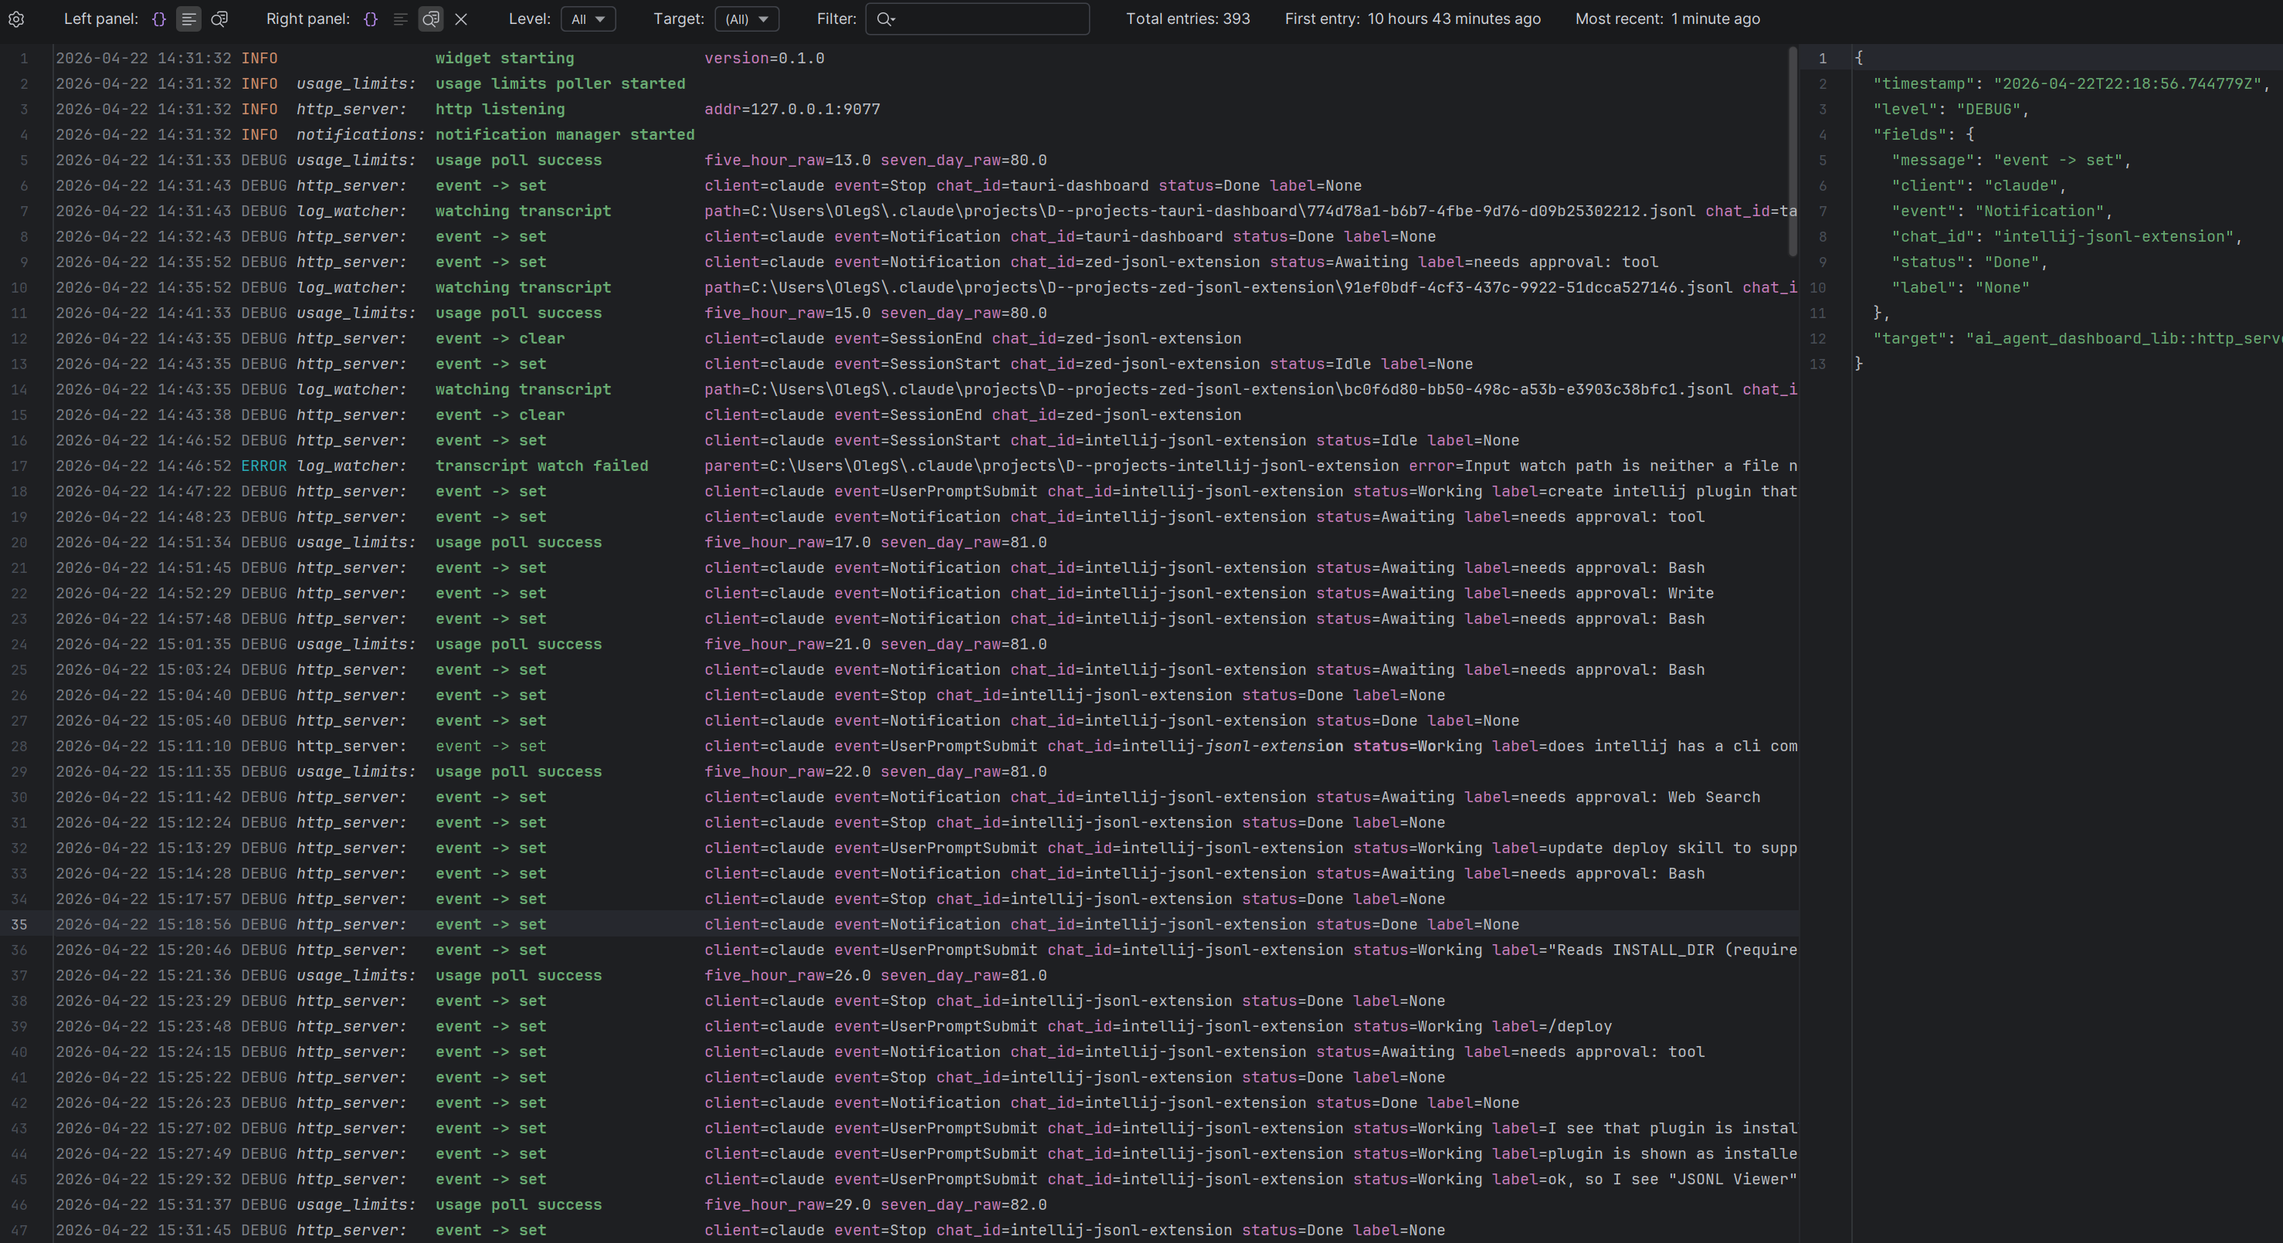
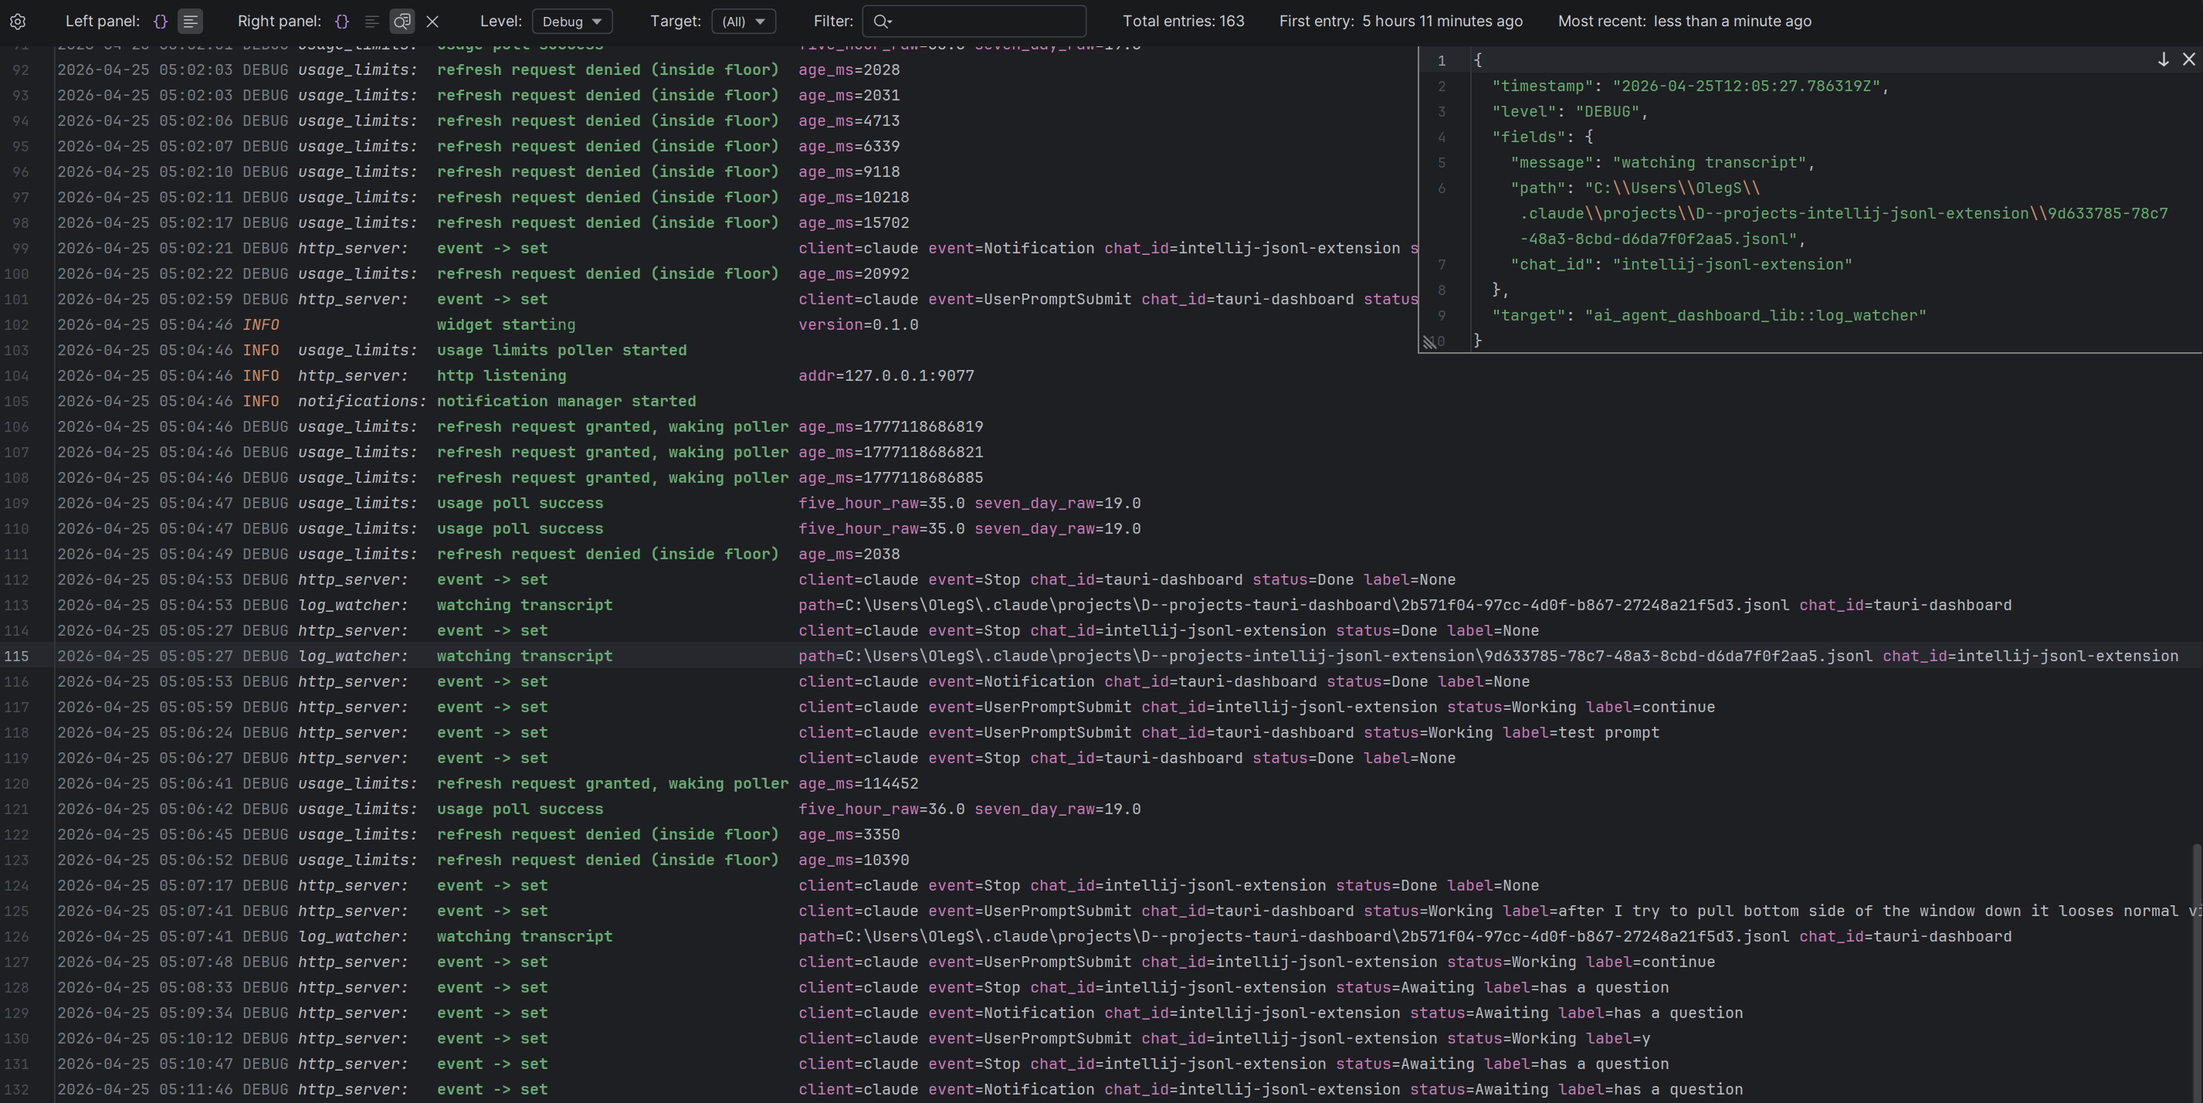
feat: soft-wrap formatted text and restyle inspect overlay
Add a "Soft wrap formatted text" gear toggle (default on). Under
Align=Fields, wrap continuations align with the first field-value column;
under other alignments, IntelliJ's default soft wrap is used.

Restyle the inspect overlay: leave the editor's vertical scrollbar gutter
clear so it stays draggable, and draw the closing horizontal frame as a
separate divider that extends past the overlay into the gutter. In
auto-resize mode, hide the diagonal corner grip and present the overlay's
left edge as a width-only resize handle to stop the user-drag vs auto-fit
oscillation.

diff --git a/src/main/kotlin/com/olegs/jsonl/JsonlEditor.kt b/src/main/kotlin/com/olegs/jsonl/JsonlEditor.kt
@@ -148,6 +148,7 @@ class JsonlEditor(
     private val refreshAlarm = Alarm(Alarm.ThreadToUse.SWING_THREAD, this)
     private val filterAlarm = Alarm(Alarm.ThreadToUse.SWING_THREAD, this)
     private val inspectOverlay: InspectOverlay by lazy { InspectOverlay() }
+    private var formattedSoftWrapIndent: Int = 0
 
     init {
         textEditor.editor.settings.isRightMarginShown = false
@@ -323,12 +324,37 @@ class JsonlEditor(
 
     private fun buildInspectOverlayLayer(left: JComponent): JComponent {
         val container = JPanel(null)
-        container.layout = InspectOverlayLayout(left, inspectOverlay)
+        val leftEditor = when (leftPane) {
+            Pane.FORMATTED -> formattedEditor
+            Pane.RAW -> filteredRawEditor
+            else -> null
+        }
+        val divider = OverlayDivider()
+        container.layout = InspectOverlayLayout(left, inspectOverlay, divider, leftEditor)
         container.add(left)
         container.add(inspectOverlay)
-        container.setComponentZOrder(inspectOverlay, 0)
+        container.add(divider)
+        // Frontmost first: divider draws over overlay + scrollbar gutter; overlay
+        // draws over the editor; the editor sits at the back.
+        container.setComponentZOrder(divider, 0)
+        container.setComponentZOrder(inspectOverlay, 1)
         inspectOverlay.refreshCornerIcon()
         return container
+    }
+
+    // 1px horizontal line drawn at the overlay's far edge that extends past the
+    // overlay's right edge into the editor's vertical-scrollbar gutter, so the
+    // overlay's visual frame reads as continuous across the full pane width
+    // even though the overlay itself stops short of the scrollbar.
+    // Mouse-transparent (contains() returns false) — events fall through to the
+    // scrollbar underneath, keeping it draggable.
+    private inner class OverlayDivider : JComponent() {
+        init { isOpaque = false }
+        override fun paintComponent(g: Graphics) {
+            g.color = JBColor.GRAY
+            g.drawLine(0, 0, width - 1, 0)
+        }
+        override fun contains(x: Int, y: Int): Boolean = false
     }
 
     private fun loadOverlayCorner(): OverlayCorner {
@@ -356,30 +382,51 @@ class JsonlEditor(
     private inner class InspectOverlayLayout(
         private val left: JComponent,
         private val overlay: InspectOverlay,
+        private val divider: JComponent,
+        private val leftEditor: Editor?,
     ) : LayoutManager {
         override fun addLayoutComponent(name: String?, comp: Component?) {}
         override fun removeLayoutComponent(comp: Component?) {}
         override fun preferredLayoutSize(parent: Container): Dimension = parent.size
         override fun minimumLayoutSize(parent: Container): Dimension = Dimension(0, 0)
 
+        // Reserve the left editor's vertical scrollbar gutter on the right so the
+        // overlay never sits on top of the scrollbar (where it would intercept
+        // drag events). preferredSize is used in case the bar is currently
+        // hidden — we want a stable position regardless.
+        private fun scrollbarReserve(): Int {
+            val sb = (leftEditor as? EditorEx)?.scrollPane?.verticalScrollBar ?: return 0
+            return sb.preferredSize.width.takeIf { it > 0 } ?: JBUI.scale(14)
+        }
+
         override fun layoutContainer(parent: Container) {
             val w = parent.width
             val h = parent.height
             left.setBounds(0, 0, w, h)
 
-            val maxW = (w - OVERLAY_INSET_PX).coerceAtLeast(1)
+            val sbReserve = scrollbarReserve()
+            val maxW = (w - OVERLAY_INSET_PX - sbReserve).coerceAtLeast(1)
             val maxH = (h - OVERLAY_INSET_PX).coerceAtLeast(1)
             val requested = loadOverlaySize(w, h)
             val ow = minOf(requested.width, maxW).coerceAtLeast(minOf(OVERLAY_MIN_W, maxW))
             val oh = minOf(requested.height, maxH).coerceAtLeast(minOf(OVERLAY_MIN_H, maxH))
             if (ow != requested.width || oh != requested.height) saveOverlaySize(ow, oh)
 
-            val ox = (w - ow - OVERLAY_INSET_PX).coerceAtLeast(0)
-            val oy = when (loadOverlayCorner()) {
+            val ox = (w - ow - OVERLAY_INSET_PX - sbReserve).coerceAtLeast(0)
+            val corner = loadOverlayCorner()
+            val oy = when (corner) {
                 OverlayCorner.TOP -> OVERLAY_INSET_PX
                 OverlayCorner.BOTTOM -> (h - oh - OVERLAY_INSET_PX).coerceAtLeast(0)
             }
             overlay.setBounds(ox, oy, ow, oh)
+
+            // Divider sits at the overlay's far horizontal edge and extends right
+            // through the scrollbar gutter to the parent's right edge.
+            val dividerY = when (corner) {
+                OverlayCorner.TOP -> oy + oh
+                OverlayCorner.BOTTOM -> oy - 1
+            }
+            divider.setBounds(ox, dividerY, w - ox, 1)
         }
     }
 
@@ -400,21 +447,33 @@ class JsonlEditor(
         }
         private val editorComponent: JComponent = inspectEditor.component
         private val gripComponent = ResizeGrip()
+        private val leftEdgeHandle = LeftEdgeHandle()
+        // The overlay only draws its own LEFT vertical edge. The horizontal line
+        // along the opposite-anchor side is drawn by OverlayDivider so it can
+        // extend past the overlay into the scrollbar gutter. Right edge is open
+        // so the scrollbar gutter beside the overlay reads as continuous space.
+        private val overlayBorder: Border =
+            BorderFactory.createMatteBorder(0, OVERLAY_BORDER_PX, 0, 0, JBColor.GRAY)
         private var startSize: Dimension = Dimension()
         private var startPointOnScreen: Point = Point()
 
         init {
             isOpaque = true
             background = JBColor.PanelBackground
-            border = borderForCorner(loadOverlayCorner())
+            border = overlayBorder
             add(cornerButton)
             add(closeButton)
             add(editorComponent)
             add(gripComponent)
-            // Grip + chrome buttons on top so they intercept mouse events over the editor.
-            setComponentZOrder(gripComponent, 0)
-            setComponentZOrder(closeButton, 1)
-            setComponentZOrder(cornerButton, 2)
+            add(leftEdgeHandle)
+            // Resize affordances + chrome buttons on top so they intercept mouse
+            // events over the editor. Edge handle and grip are mutually exclusive
+            // by visibility (auto-resize vs manual), so their relative z-order is
+            // immaterial — both kept frontmost for safety.
+            setComponentZOrder(leftEdgeHandle, 0)
+            setComponentZOrder(gripComponent, 1)
+            setComponentZOrder(closeButton, 2)
+            setComponentZOrder(cornerButton, 3)
             cornerButton.addMouseListener(object : MouseAdapter() {
                 override fun mouseClicked(e: MouseEvent) {
                     flipCorner()
@@ -444,13 +503,23 @@ class JsonlEditor(
                     val maxH = parentBox.height.coerceAtLeast(1)
                     val newW = rawW.coerceIn(minOf(OVERLAY_MIN_W, maxW), maxW)
                     val newH = rawH.coerceIn(minOf(OVERLAY_MIN_H, maxH), maxH)
-                    saveOverlaySize(newW, newH)
+                    if (JsonlSettings.getInstance().config.autoResizeInspect) {
+                        // Auto-resize owns height; persisting newH here would race
+                        // the autoResizeOverlayIfEnabled callback and oscillate.
+                        // The width change still feeds back into auto-fit because
+                        // wrap point depends on width.
+                        props.setValue(KEY_OVERLAY_W, newW, -1)
+                    } else {
+                        saveOverlaySize(newW, newH)
+                    }
                     parentBox.revalidate()
                     parentBox.repaint()
                 }
             }
             gripComponent.addMouseListener(resizeAdapter)
             gripComponent.addMouseMotionListener(resizeAdapter)
+            leftEdgeHandle.addMouseListener(resizeAdapter)
+            leftEdgeHandle.addMouseMotionListener(resizeAdapter)
             // Width changes alter the soft-wrap point, which can change the visual
             // line count. Re-run auto-resize so the height tracks the new wrap.
             // Height-only changes are filtered out to avoid feedback loops.
@@ -483,19 +552,24 @@ class JsonlEditor(
             gripComponent.cursor = Cursor.getPredefinedCursor(
                 if (corner == OverlayCorner.TOP) Cursor.SW_RESIZE_CURSOR else Cursor.NW_RESIZE_CURSOR
             )
+            // In auto-resize mode the height is owned by autoResizeOverlayIfEnabled,
+            // so the diagonal grip is misleading — hide it and present a left-edge
+            // handle that constrains the drag to width only. In manual mode the
+            // grip stays (two-axis drag) and the edge handle disappears.
+            val autoResize = JsonlSettings.getInstance().config.autoResizeInspect
+            gripComponent.isVisible = !autoResize
+            leftEdgeHandle.setBounds(0, 0, JBUI.scale(LEFT_EDGE_HANDLE_PX), height)
+            leftEdgeHandle.isVisible = autoResize
         }
 
         fun refreshCornerIcon() {
-            val corner = loadOverlayCorner()
-            cornerButton.icon = iconForCorner(corner)
-            border = borderForCorner(corner)
+            cornerButton.icon = iconForCorner(loadOverlayCorner())
         }
 
         fun flipCorner() {
             val next = if (loadOverlayCorner() == OverlayCorner.TOP) OverlayCorner.BOTTOM else OverlayCorner.TOP
             saveOverlayCorner(next)
             cornerButton.icon = iconForCorner(next)
-            border = borderForCorner(next)
             parent?.revalidate()
             parent?.repaint()
         }
@@ -503,15 +577,6 @@ class JsonlEditor(
         private fun iconForCorner(corner: OverlayCorner): Icon =
             if (corner == OverlayCorner.TOP) ChromeIcon(ChromeIconType.DOWN) else ChromeIcon(ChromeIconType.UP)
 
-        private fun borderForCorner(corner: OverlayCorner): Border = when (corner) {
-            // Horizontal anchor side flush (0); other three sides 1px.
-            OverlayCorner.TOP -> BorderFactory.createMatteBorder(
-                0, OVERLAY_BORDER_PX, OVERLAY_BORDER_PX, OVERLAY_BORDER_PX, JBColor.GRAY,
-            )
-            OverlayCorner.BOTTOM -> BorderFactory.createMatteBorder(
-                OVERLAY_BORDER_PX, OVERLAY_BORDER_PX, 0, OVERLAY_BORDER_PX, JBColor.GRAY,
-            )
-        }
     }
 
     private enum class ChromeIconType { DOWN, UP, CLOSE }
@@ -560,6 +625,17 @@ class JsonlEditor(
             } finally {
                 g2.dispose()
             }
+        }
+    }
+
+    // Thin invisible strip pinned to the overlay's left edge that surfaces the
+    // border as a width-resize handle. Used only in auto-resize mode, where the
+    // corner grip is hidden because vertical drag has no effect.
+    private inner class LeftEdgeHandle : JPanel() {
+        init {
+            isOpaque = false
+            cursor = Cursor.getPredefinedCursor(Cursor.W_RESIZE_CURSOR)
+            toolTipText = "Drag to resize width"
         }
     }
 
@@ -638,12 +714,26 @@ class JsonlEditor(
 
         val formattedText = result.structuredLines.joinToString("\n") { it.text }
         val spans = HighlightSpanBuilder.build(result.structuredLines, cfg)
+        // Custom soft-wrap indent: only meaningful under Alignment.FIELDS, where
+        // every line's first '=' lands at the same column, so the single
+        // editor-wide indent IntelliJ exposes is exact for every line. Under
+        // other alignments fall back to the default (continuation at column 0).
+        // The value's start column is `eqStart + 1`, but IntelliJ paints a
+        // soft-wrap indicator glyph (~1 column wide) at the head of every
+        // continuation line that pushes the actual text right by one column —
+        // so we set the indent to `eqStart` to compensate.
+        formattedSoftWrapIndent = if (cfg.alignment == Alignment.FIELDS) {
+            result.structuredLines
+                .firstOrNull { it.equalsRanges.isNotEmpty() }
+                ?.equalsRanges?.first()?.last ?: 0
+        } else 0
 
         ApplicationManager.getApplication().runWriteAction {
             formattedDoc.setText(formattedText)
             formattedDoc.putUserData(JSONL_HIGHLIGHT_SPANS, spans)
             filteredRawDoc.setText(result.rawLines.joinToString("\n"))
         }
+        applySoftWrap()
         toolbar?.updateActionsAsync()
     }
 
@@ -725,7 +815,11 @@ class JsonlEditor(
     }
 
     private fun applySoftWrap() {
-        inspectEditor.settings.isUseSoftWraps = JsonlSettings.getInstance().config.softWrapInspect
+        val cfg = JsonlSettings.getInstance().config
+        inspectEditor.settings.isUseSoftWraps = cfg.softWrapInspect
+        formattedEditor.settings.isUseSoftWraps = cfg.softWrapFormatted
+        formattedEditor.settings.isUseCustomSoftWrapIndent = formattedSoftWrapIndent > 0
+        formattedEditor.settings.customSoftWrapIndent = formattedSoftWrapIndent
     }
 
     private class StaticLabelAction(private val text: String) : AnAction(), CustomComponentAction {
@@ -866,6 +960,7 @@ class JsonlEditor(
                 add(settingToggle("Scroll to latest on open") { it::scrollToEndOnOpen })
                 add(settingToggle("Auto-resize inspect height") { it::autoResizeInspect })
                 add(settingToggle("Soft wrap inspect text") { it::softWrapInspect })
+                add(settingToggle("Soft wrap formatted text") { it::softWrapFormatted })
                 addSeparator()
                 add(object : AnAction("Open full settings…") {
                     override fun actionPerformed(e: AnActionEvent) {
@@ -1005,6 +1100,7 @@ class JsonlEditor(
         const val OVERLAY_MIN_H = 140
         const val OVERLAY_GRIP_PX = 16
         const val OVERLAY_BORDER_PX = 1
+        const val LEFT_EDGE_HANDLE_PX = 4
         // Reserved bottom slack matching a horizontal scrollbar's height — kept
         // constant (and decoupled from the editor's live scrollbar state) so the
         // auto-resized height doesn't oscillate between content with and without

diff --git a/src/main/kotlin/com/olegs/jsonl/JsonlSettings.kt b/src/main/kotlin/com/olegs/jsonl/JsonlSettings.kt
@@ -44,6 +44,7 @@ class JsonlSettings : PersistentStateComponent<JsonlSettings.State> {
         var scrollToEndOnOpen: Boolean = false,
         var autoResizeInspect: Boolean = false,
         var softWrapInspect: Boolean = true,
+        var softWrapFormatted: Boolean = true,
 
         // Field mapping — dotted JSON paths, one per semantic slot.
         var fieldTimestampPath: String = FieldMapping.DEFAULT.timestampPath,

diff --git a/docs/pages/usage.md b/docs/pages/usage.md
@@ -48,7 +48,7 @@ When the right panel is set to Inspect, the left pane fills the editor full-widt
 
 The overlay's chrome lives in the top-right corner: a corner-toggle (↓ / ↑) flips the anchor between top-right and bottom-right, and a close button (×) hides the overlay (equivalent to the toolbar's "Right panel: Off"). Clicking the toolbar's **Inspect** button while it's already selected also flips the corner.
 
-The free corner of the overlay (bottom-left when anchored top, top-left when anchored bottom) carries a resize grip — drag it to grow or shrink the overlay; size and corner are persisted across sessions.
+The free corner of the overlay (bottom-left when anchored top, top-left when anchored bottom) carries a resize grip — drag it diagonally to grow or shrink the overlay. When **Auto-resize inspect height** is on, the height is owned by the overlay (it auto-fits the current entry), so the corner grip is hidden and the overlay's left edge becomes a width-only resize handle instead. Size and corner are persisted across sessions.
 
 The line-index ↔ raw-line mapping works correctly across filters: if you filter to 8 `ERROR` entries out of 500 lines, clicking on "Formatted line 3" shows the pretty JSON of the 3rd matching entry — not raw line 3.
 
@@ -112,6 +112,7 @@ The gear icon at the very left of the toolbar opens a popup containing:
 - Scroll to latest on open
 - Auto-resize inspect height (auto-fit the inspect overlay's height to the current entry)
 - Soft wrap inspect text (wrap long JSON values to the overlay's width instead of overflowing)
+- Soft wrap formatted text (wrap long formatted log lines to the editor width)
 - Four Align radio items (None / Targets / Messages / Fields)
 - **Open full settings…** — opens the Settings dialog directly at the JSONL Log Viewer page
 
@@ -157,6 +158,7 @@ All padding widths are computed from the **filtered subset** so alignment stays 
 | Scroll to the latest entry when a `.jsonl` file is opened | **off** | Move caret to the last non-blank line on open |
 | Auto-resize inspect height | **off** | When the inspect overlay is shown, recompute its vertical size on every caret move so the current entry's pretty-printed JSON fits exactly. Width and corner stay user-controlled |
 | Soft wrap inspect text | **on** | Wrap long JSON values inside the inspect overlay to its width instead of overflowing. When auto-resize is on, wrapped continuations count toward the height so wrapped lines stay fully visible |
+| Soft wrap formatted text | **on** | Wrap long formatted log lines to the editor width. Under **Align = Fields** (where every line's first `=` lands at the same column), wrap continuations align with the column where the first field-value begins; under other alignments, continuations start at column 0 |
 
 ### Field mapping
 
